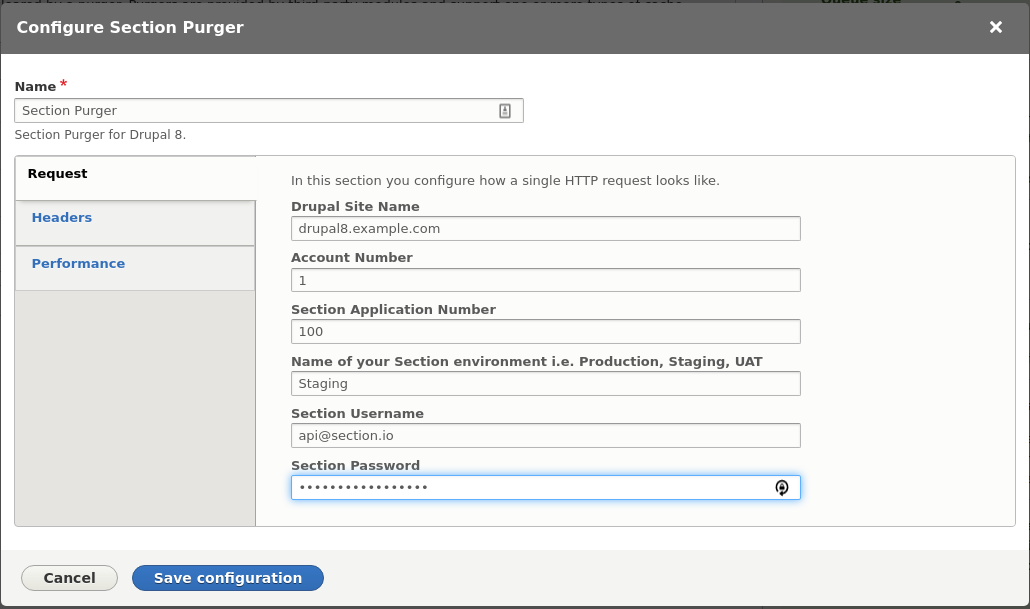
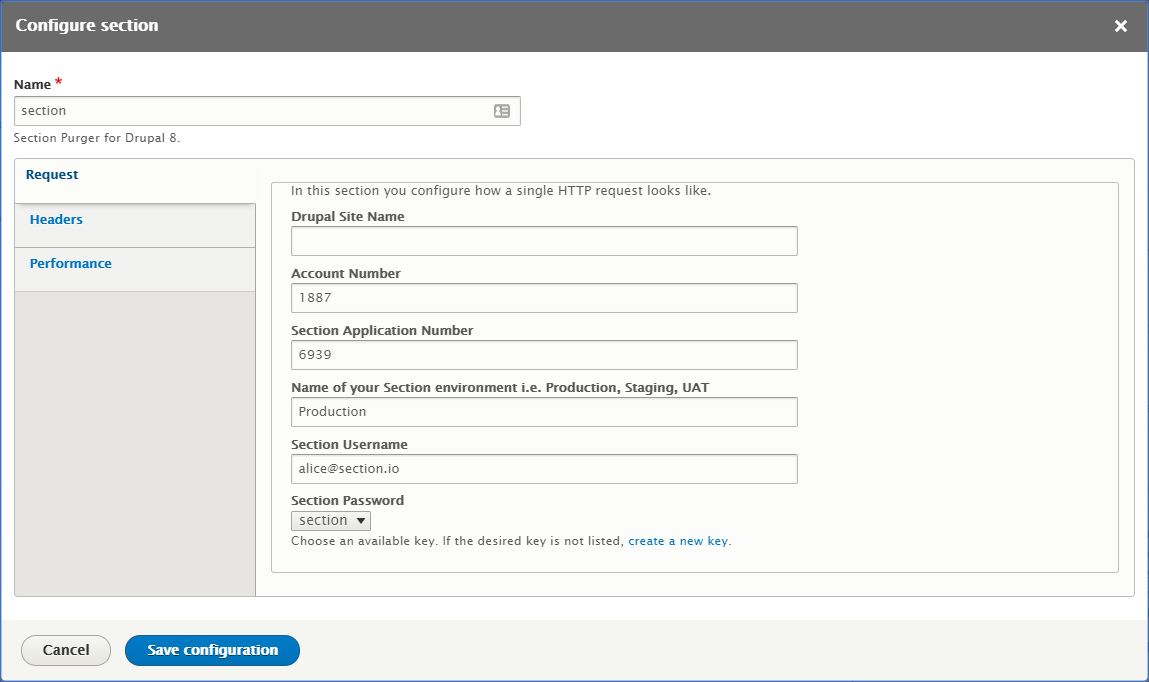
add documentation for new drupal module update

Changed region(s): [[0.0, 0.0, 1.0, 1.0], [0.6835, 0.3432, 0.7146, 0.3744]]

diff --git a/content/integrations/how-tos/drupal-setup/set-up-drupal-8.md b/content/integrations/how-tos/drupal-setup/set-up-drupal-8.md
@@ -14,6 +14,14 @@ The following is a guide to installing the Section Drupal module into an existin
 * An existing Section application. For help setting up an application, [go here](https://www.section.io/docs/tutorials/activate-section-io/create-application-edge/)
 * A user account to be associated with the Drupal Module (many customers choose to create a user account that exists simply to authenticate cache clearing and is not associated with a specific, real person). To create an account please visit [this link](https://www.section.io/public/register) and for help adding a new user to an app please [see here](https://www.section.io/docs/how-to/user-management/add-a-user-to-your-account/)
 * The Drupal 8 [purge module](https://www.drupal.org/project/purge) installed.
+* The Drupal 8 [key module](https://www.drupal.org/project/key) installed.
+* Drush installed if you want to purge any invalidation type over CLI. (requires purge 8.x-3.x-dev or newer for Drush 9 support)
+* Modify your VCL to disable cache on certain pages like admin panel. [Here's an example](https://gitlab.wklive.net/snippets/32), but lots will probably need to be changed for section. 
+  * The blocks of code within `if (req.method == "BAN")` and `if (req.method == "PURGE")` are not necessary on section because bans are handle via the API. 
+  * You may also want to pass on pages with certain cache tags:
+    * `obj.http.Cache-Tags ~ "config:user.role.authenticated"`
+    *  `obj.http.Cache-Tags ~ "config:user.role.administrator"` and/or
+    *  `obj.http.Cache-Tags ~ "config:system.menu.admin"`
 
 ### Download the Section Purger
 
@@ -32,6 +40,12 @@ You also need to enable a way to process cache invalidation items. You choices a
 Finally, enable the Section Purger itself, along with the `Section HTTP Tags Header` module and the `Core Tags Queuer`. This module ensures that Drupal sends the appropriate cache tags that our module uses to evict expired assets from the cache.
 
 {{% figure src="/docs/images/drupal8-purger-modules.png" %}}
+
+### Safely store your Aperture Password with the key module
+
+Navigate to `/admin/config/system/keys/add` and input your section.io password. Use key type `Authentication`, and choose whichever key provider you find to be the safest in your particular environment. (More info on this in the [key module documentation](https://www.drupal.org/docs/8/modules/key)).
+
+{{% figure src="/docs/images/drupal8-purger-key.png" %}}
 
 ### Configure Full Page Cache Max Age
 
@@ -53,3 +67,23 @@ Once here, input the details of the user account you would like to use to authen
 {{% figure src="/docs/images/drupal8-configure-purger.png" %}}
 
 {{% figure src="/docs/images/drupal8-purger-all-green.png" %}}
+
+## Check the logs to confirm that queuer is working (optional)
+
+You can set the logging levels from the block on the right sidebar on the purge page. 
+
+(`/admin/config/development/performance/purge`)
+
+
+{{% figure src="/docs/images/drupal8-purger-logging.png" %}}
+
+You can view the logs at `/admin/reports/dblog`
+
+{{% figure src="/docs/images/drupal8-purger-logs.png" %}}
+
+
+## Raise the timeout if necessary
+
+If you are seeing timeout errors connecting to aperture, raise the timeout in the purger settings.
+
+{{% figure src="/docs/images/drupal8-purger-timeout.png" %}}
